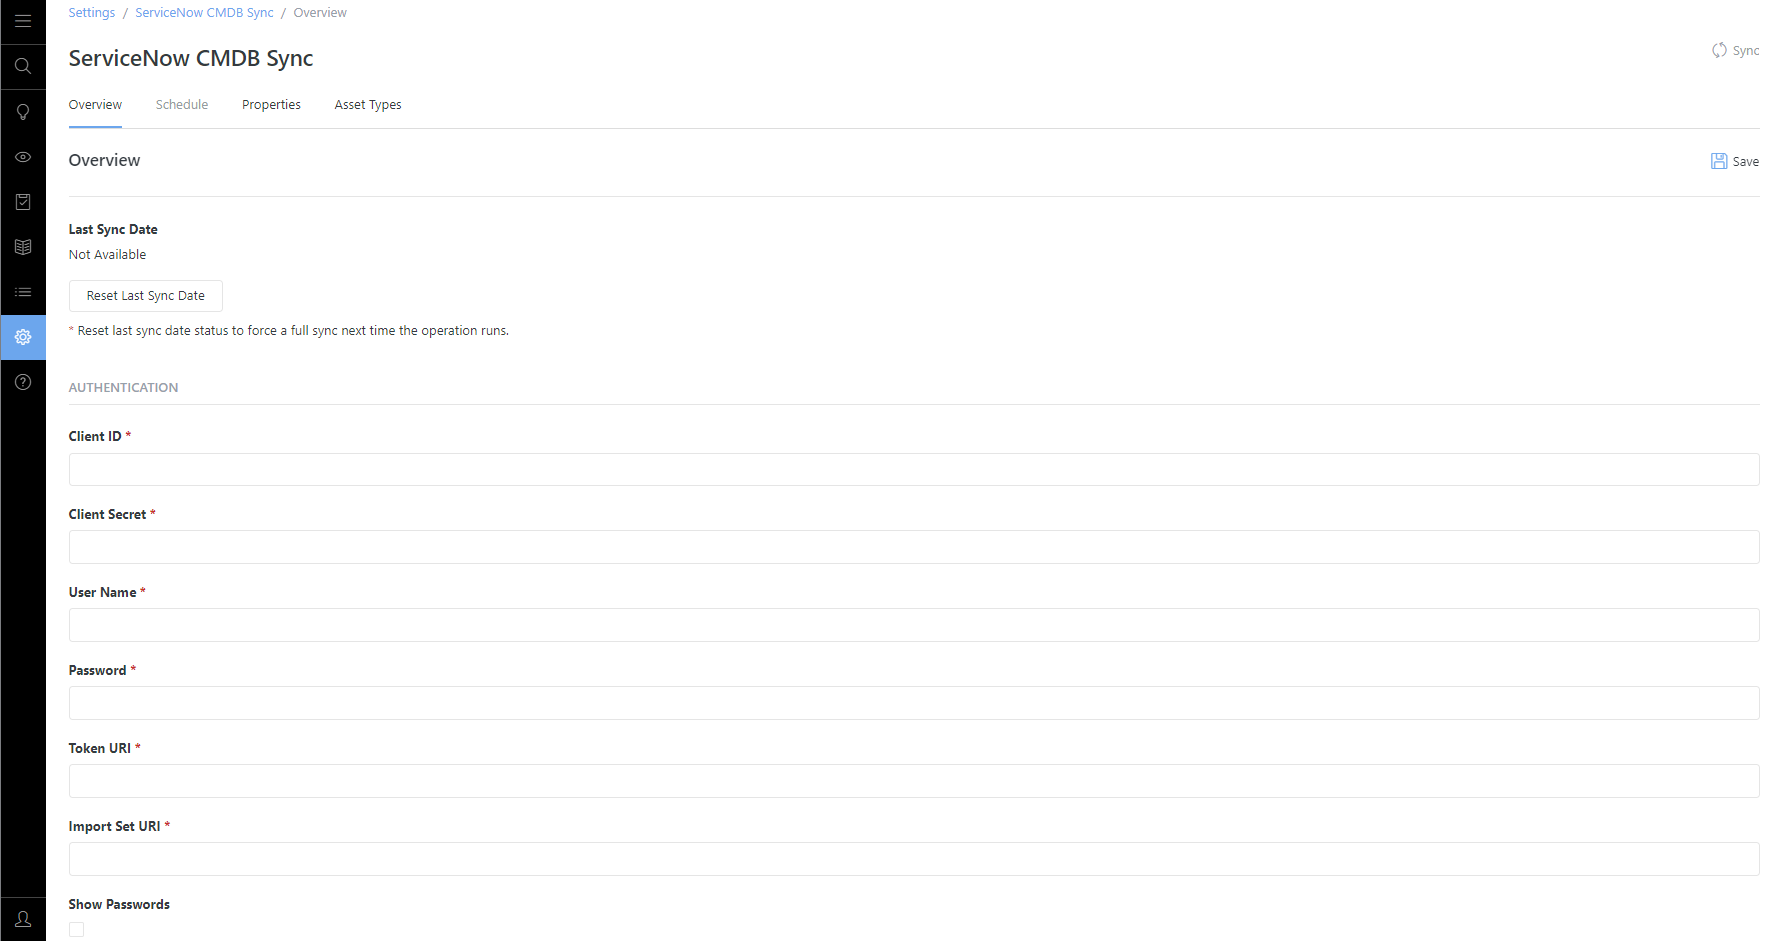
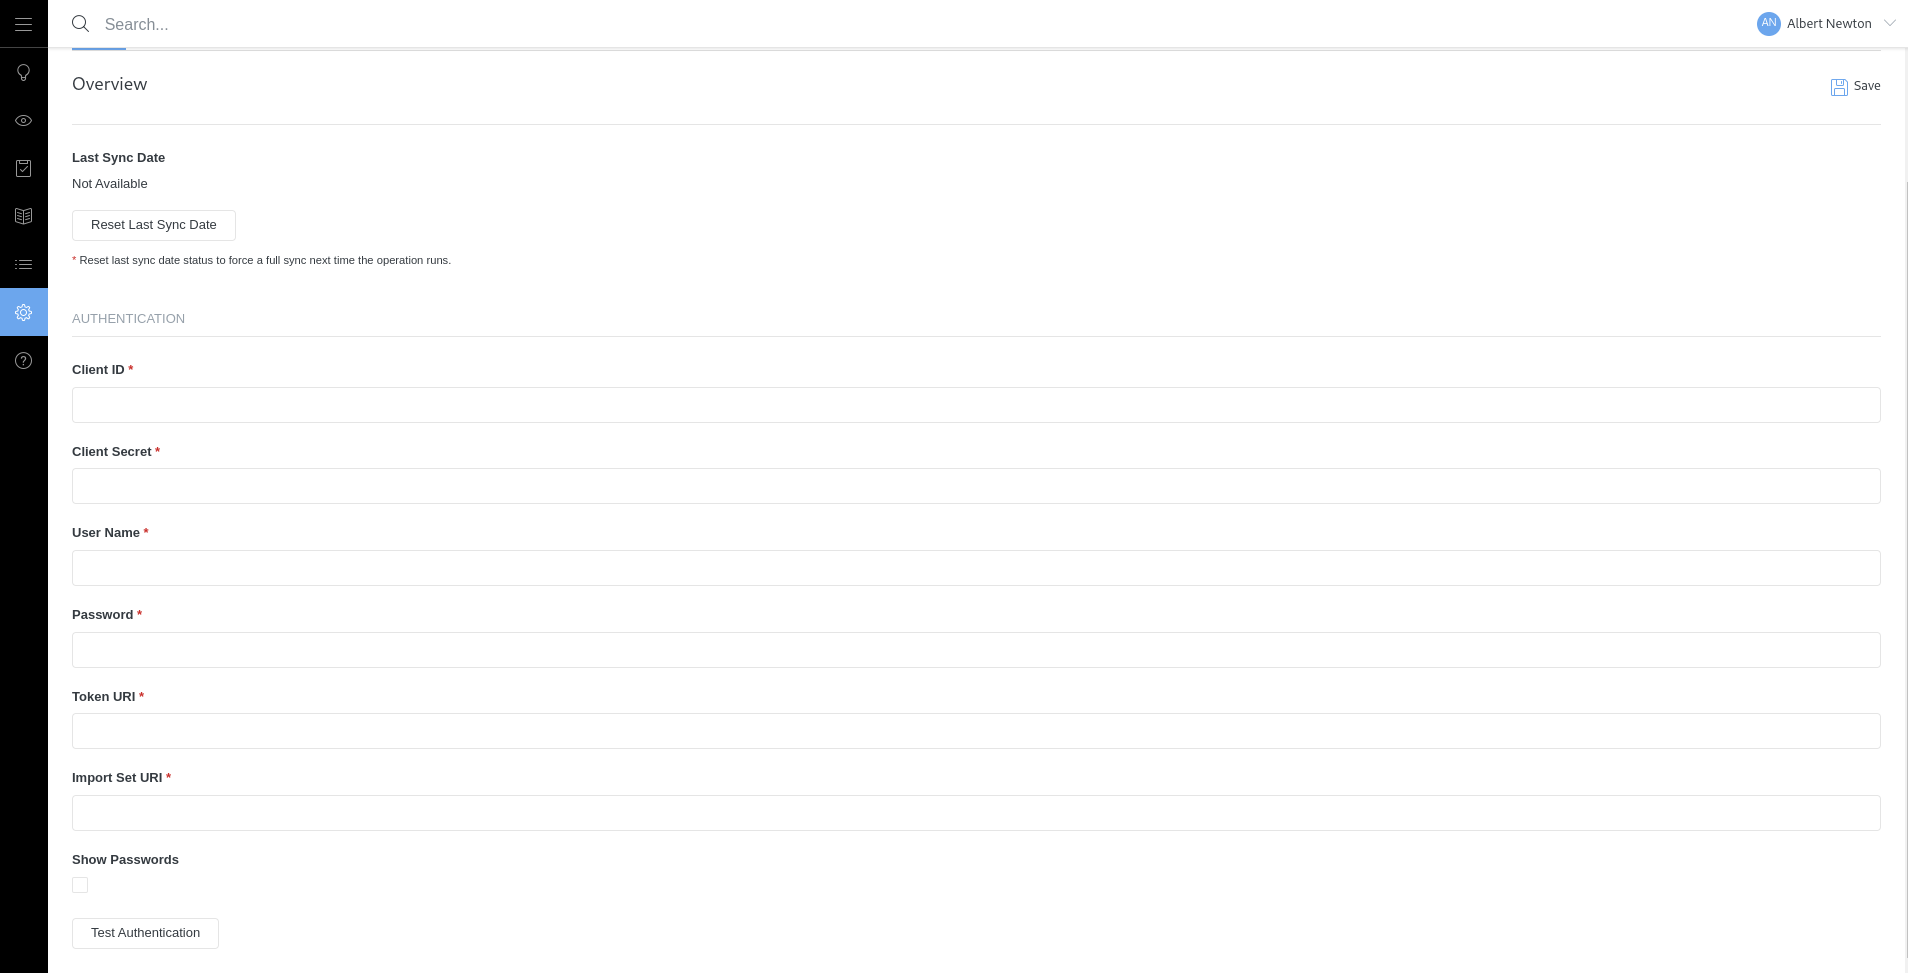
Added updated to releasenotes, itegrations and discovery pages

diff --git a/documentation/release-notes/topics/version_3.rst b/documentation/release-notes/topics/version_3.rst
@@ -34,6 +34,13 @@ Rack Security control actions have been enhanced to integrate with Work Orders. 
 
 .. warning:: The latest Data Collector software is needed to take advantage of this feature.
 
+===============================================
+Enhanced Licensed Feature: ServiceNow CMDB Sync
+===============================================
+Administrators are now able to test the provided ServiceNow credentials from the configuration page before any sync job is attempted.
+
+.. note:: Please contact our Sales team if you are interested in getting a Rack Security license.
+
 ============================================
 New Feature: Automated Catalog Data Feedback
 ============================================

diff --git a/documentation/settings/topics/service-now-cmdb-sync.rst b/documentation/settings/topics/service-now-cmdb-sync.rst
@@ -28,10 +28,10 @@ Prerequisites
 Configuration
 =============
 
-Enter the information prepared earlier in their corresponding configuration field.
+Enter the information prepared earlier in their corresponding configuration field. It is recommended that the entered credentials be tested using the **Test Authentication** button before a sync is attempted.
 
 .. image:: /settings/media/servicenow_overview.png
-   :width: 1781
+   :width: 1908
    :alt: ServiceNow CMDB integration overview
 
 The Last Sync Date, if populated, notes the last timestamp sync has started and finished successfully. This timestamp is used to sync changed assets since the last successful run.

diff --git a/documentation/auto-discovery/topics/setting-up-data-collectors.rst b/documentation/auto-discovery/topics/setting-up-data-collectors.rst
@@ -137,7 +137,7 @@ Please make sure that the asset can reach the targeted Data Collector on the app
      - Not required
    * - AssetTracker Gen2/MQTT Port
      - 1883
-     - Not required
+     - Username & Password
 
 Firewall considerations
 ^^^^^^^^^^^^^^^^^^^^^^^
